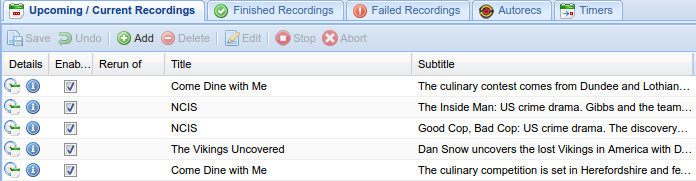
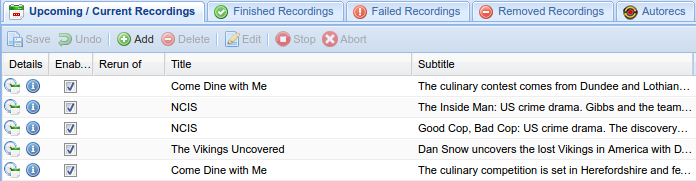
mdhelp: add info for removed recordings and update screenshots

Changed region(s): [[0.0, 0.0, 1.0, 0.3039]]

diff --git a/docs/markdown/inc/dvr.md b/docs/markdown/inc/dvr.md
@@ -4,17 +4,22 @@ between the *Upcoming / Current Recordings*, *Finished Recordings* and
 
 **Upcoming / Current Recordings**
 : This sub-tab lists current and upcoming recording entries. Entries 
-that appear here are either currently recording or are soon-to-be 
-recorded.
+shown here are either currently recording or are soon-to-be recorded.
 
 **Finished Recordings**
-: This sub-tab lists all completed recording entries. Entries that appear 
-here have reached the end of the scheduled recording time.
+: This sub-tab lists all completed recording entries. Entries shown 
+here have reached the end of the scheduled (or EITp/f defined) 
+recording time.
 
 **Failed Recordings**
-: This sub-tab lists all failed recording entries. Entries that appear 
-here have failed to record due to one (or more) errors that occurred 
-during the recording.
+: This sub-tab lists all failed recording entries. Entries shown here 
+have failed to record due to one (or more) errors that occurred during 
+the recording.
+
+**Removed Recordings**
+: This sub-tab lists all recording entries that have missing file(s). 
+Entries shown here link to file(s) that Tvheadend cannot locate 
+(files which have been externally removed).
 
 !['Digital Video Recorder' Tabs](static/img/doc/configdvrtabs4.png)
 

diff --git a/docs/markdown/toc.md b/docs/markdown/toc.md
@@ -22,6 +22,7 @@ Web Interface Guide
   - [Upcoming / Current Recordings](dvr)
   - [Finished Recordings](dvr)
   - [Failed Recordings](dvr)
+  - [Removed Recordings](dvr)
   - [Auto-recording (Autorecs)](class/dvrautorec)
   - [Time-based Recording (Timers)](class/dvrtimerec)
 
